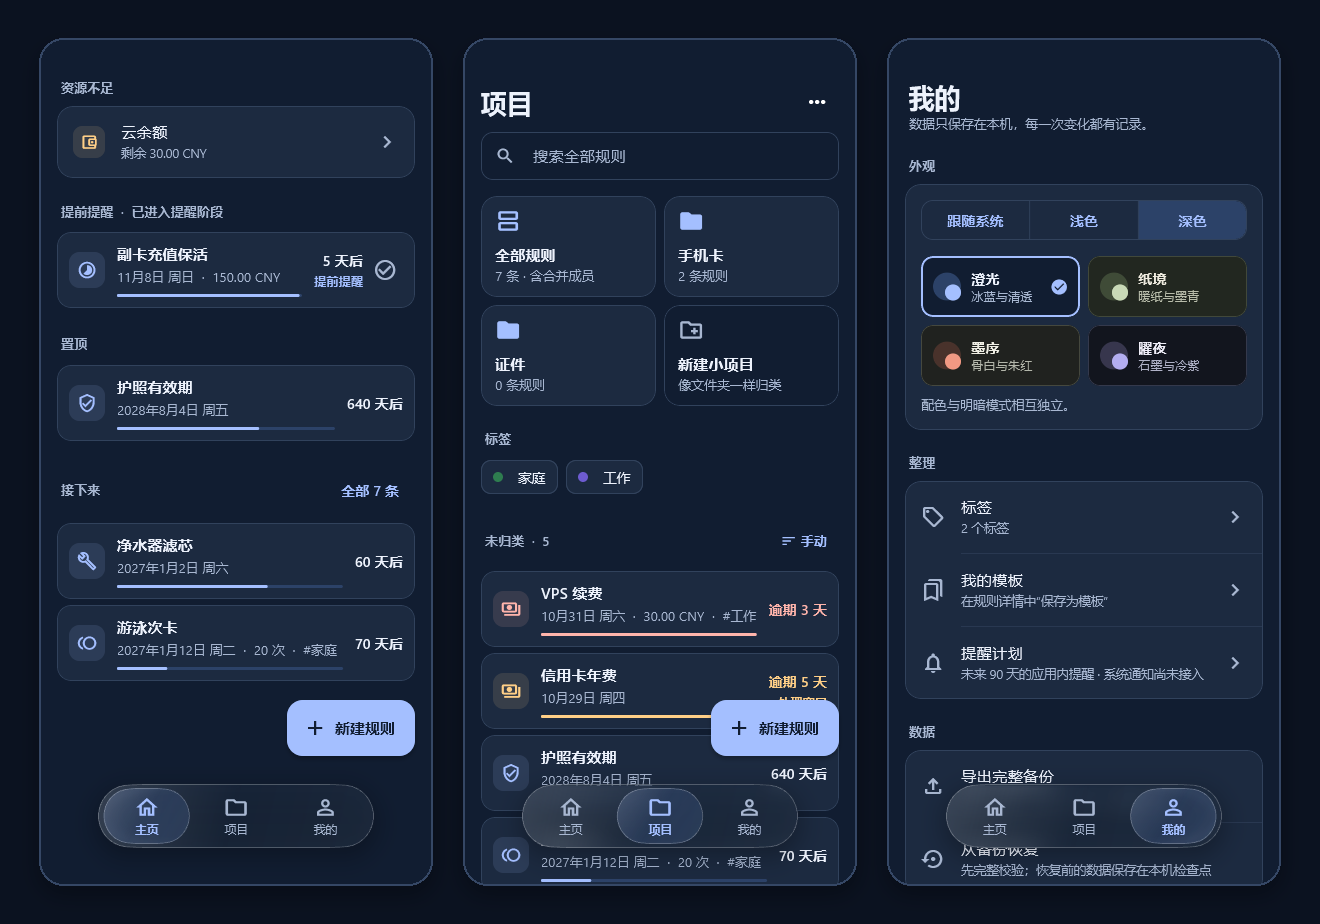
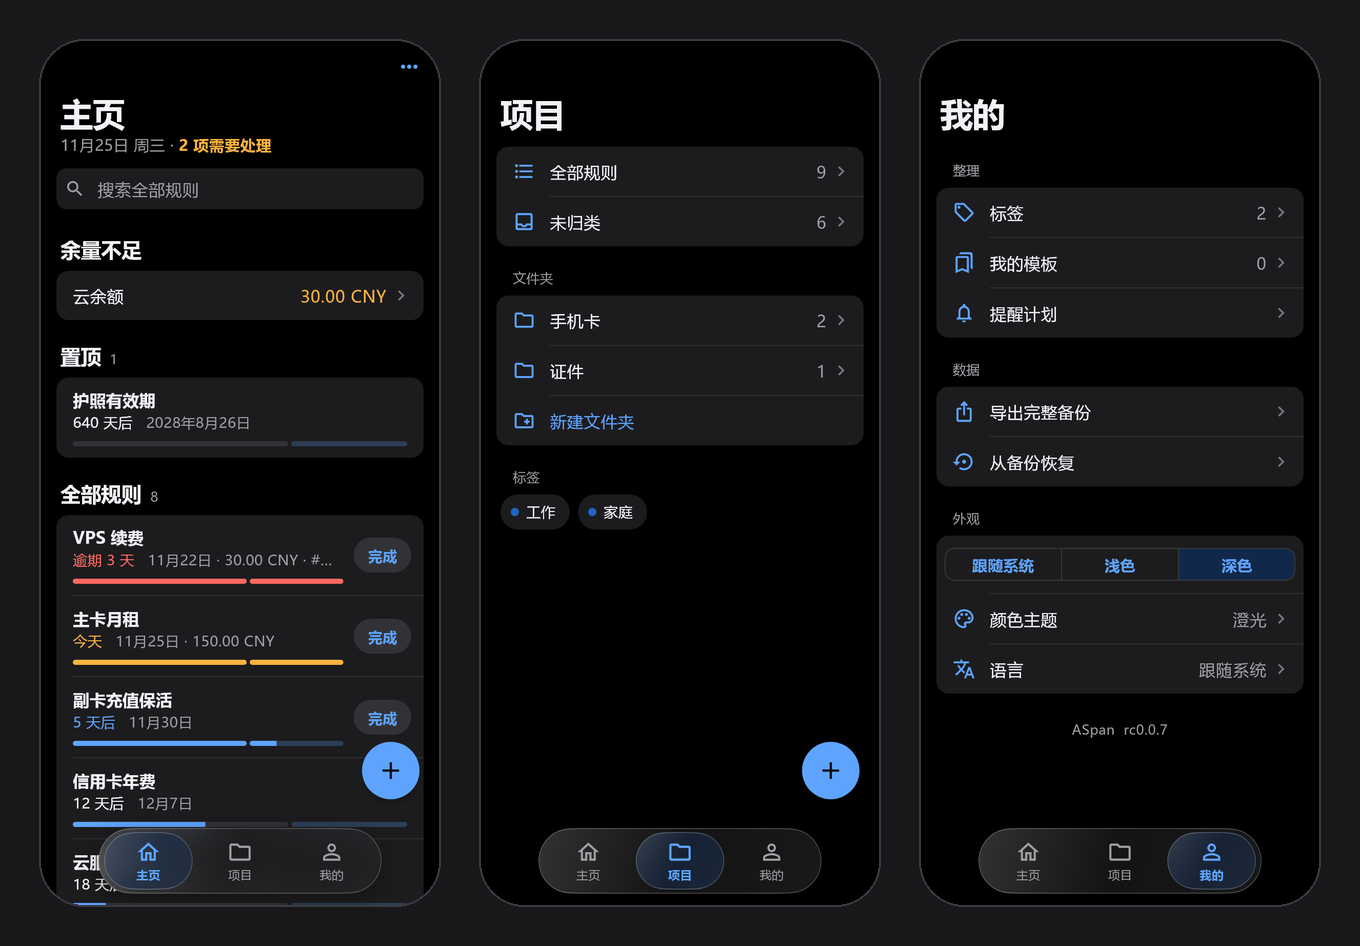
chore: release rc0.0.7 (0.0.7-rc.1+11)
Update both READMEs for rc0.0.7: interface languages, the Home order, Android-only downloads and new preview screenshots rendered from sample data.

diff --git a/README.md b/README.md
@@ -20,7 +20,7 @@ An offline app for time and resource tracking, built with Flutter and Rust.
   <img src="docs/images/preview-light.png" alt="The ASpan Home, Projects and Me pages, shown in light and dark themes" width="900">
 </picture>
 
-<sub>Home · Projects · Me. Screenshots use sample data and come from UI tests; they are not device acceptance results.</sub>
+<sub>Home · Projects · Me. Screenshots use sample data and are rendered by a UI test; they are not device acceptance results.</sub>
 
 </div>
 
@@ -28,12 +28,12 @@ An offline app for time and resource tracking, built with Flutter and Rust.
 
 Subscription renewals, document expiry dates, prepaid passes and home maintenance checks tend to live in different places: a calendar, a notes app, several other apps. It's hard to see what is due and how much is left. ASpan keeps them in one local app:
 
-- **See what needs attention**: the Home page lists the items due in the current period.
+- **See what comes next**: the Home page lists every rule by its next date, with low balances and pinned rules on top.
 - **Track dates and amounts together**: balances, counts and expiry dates sit next to each cycle.
 - **Keep a record of every change**: top-ups, charges and corrections all leave an entry you can review.
 - **No account, no network**: your data stays on your device.
 
-It's for you if you want recurring tasks and remaining amounts in one place. If you need system notifications, reminders at an exact time or sync between devices, it doesn't do that yet. The interface is currently in Simplified Chinese only. Runs on Android 7.0+ and Windows 10/11 x64.
+It's for you if you want recurring tasks and remaining amounts in one place. If you need system notifications, reminders at an exact time or sync between devices, it doesn't do that yet. The interface is in Simplified Chinese, English and Traditional Chinese. Runs on Android 7.0+ and Windows 10/11 x64.
 
 ## Features
 
@@ -43,31 +43,31 @@ It's for you if you want recurring tasks and remaining amounts in one place. If 
 - **A record of every change**: confirming, topping up or charging adds an entry; corrections keep the original entry and the fix, and forecasts never write to the ledger.
 - **Data stays on your device**: export and restore a full JSON backup; the backup is checked before restoring, and a checkpoint is kept from before the restore.
 - **Fits phones and desktops**: four color schemes, light and dark modes you can switch on their own, a floating navigation bar on narrow screens and a sidebar on wide ones.
+- **Three interface languages**: Simplified Chinese, English and Traditional Chinese; it follows your system language unless you pick one.
 - **Open source**: original code under **AGPL-3.0-only**; third-party licenses and notices are kept intact.
 
-The reminder plan is only shown inside the app. **System notifications, exact times, time zones/DST and automatic posting are not implemented yet.** There is no in-app way to roll back to a restore checkpoint yet. The interface is only available in Simplified Chinese. No feature needs an internet connection.
+The reminder plan is only shown inside the app. **System notifications, exact times, time zones/DST and automatic posting are not implemented yet.** There is no in-app way to roll back to a restore checkpoint yet. No feature needs an internet connection.
 
 ## Download
 
-Current version: [**rc0.0.5**](https://github.com/SteamDoge/aspan/releases/tag/rc0.0.5) (0.0.5-rc.1+9). See [all releases](https://github.com/SteamDoge/aspan/releases) for changes and packages.
+Current version: [**rc0.0.7**](https://github.com/SteamDoge/aspan/releases/tag/rc0.0.7) (0.0.7-rc.1+11). See [all releases](https://github.com/SteamDoge/aspan/releases) for changes and packages.
 
 | Platform | Download | Which one |
 | --- | --- | --- |
-| Android 7.0+ (API 24+) | [![APK ARM64](https://img.shields.io/badge/APK-ARM64-168039?logo=android)](https://github.com/SteamDoge/aspan/releases/download/rc0.0.5/ASpan-rc0.0.5-android-arm64-v8a.apk) | Most phones |
-| Android x86_64 | [![APK x86_64](https://img.shields.io/badge/APK-x86__64-45BF55?logo=android)](https://github.com/SteamDoge/aspan/releases/download/rc0.0.5/ASpan-rc0.0.5-android-x86_64.apk) | x86_64 devices and emulators |
-| Windows 10/11 x64 | [![Portable x64](https://img.shields.io/badge/Portable-x64-2D7D9A)](https://github.com/SteamDoge/aspan/releases/download/rc0.0.5/ASpan-rc0.0.5-windows-x64.zip) | Extract the whole folder and run `aspan.exe` |
+| Android 7.0+ · ARM64 | [![APK ARM64](https://img.shields.io/badge/APK-ARM64-168039?logo=android)](https://github.com/SteamDoge/aspan/releases/download/rc0.0.7/ASpan-rc0.0.7-android-arm64-v8a.apk) | Most phones |
+| Android 7.0+ · x86_64 | [![APK x86_64](https://img.shields.io/badge/APK-x86__64-45BF55?logo=android)](https://github.com/SteamDoge/aspan/releases/download/rc0.0.7/ASpan-rc0.0.7-android-x86_64.apk) | x86_64 devices and emulators |
 
-<sub>Extract the whole Windows portable package and keep the DLLs and `data/`. It is not code-signed, so Windows may warn you on first run. There are no ARMv7, Windows ARM64, macOS, Linux or iOS packages yet. ARM64 physical devices, the final Windows GUI and the full device matrix have not been verified; see the [release](https://github.com/SteamDoge/aspan/releases/tag/rc0.0.5) for details. Check packages against [SHA256SUMS](https://github.com/SteamDoge/aspan/releases/download/rc0.0.5/SHA256SUMS).</sub>
+<sub>This version has Android packages only; the latest Windows portable package is in [rc0.0.5](https://github.com/SteamDoge/aspan/releases/tag/rc0.0.5) (extract the whole folder and keep the DLLs and `data/`; it is not code-signed). There are no ARMv7, Windows ARM64, macOS, Linux or iOS packages yet. The full device matrix has not been verified; see the [release](https://github.com/SteamDoge/aspan/releases/tag/rc0.0.7) for details. Check packages against [SHA256SUMS](https://github.com/SteamDoge/aspan/releases/download/rc0.0.7/SHA256SUMS).</sub>
 
 ## Getting started
 
 **1 · Install.** On Android, install the APK for your device. On Windows, extract the portable ZIP and keep the DLLs and `data/` next to `aspan.exe`; copying only the EXE won't work.
 
-**2 · Add a rule.** On the **Projects** (项目) page, create a rule or pick a template, then check its dates, cycle and resource settings.<br><sub>A template keeps the dates it was saved with, so check them before use.</sub>
+**2 · Add a rule.** On the **Projects** page, create a rule or pick a template, then check its dates, cycle and resource settings.<br><sub>A template keeps the dates it was saved with, so check them before use.</sub>
 
-**3 · Handle the current period.** On the **Home** (主页) page, see what is due and confirm, top up, charge or skip it.
+**3 · Handle the current period.** On the **Home** page, see what is due and mark it done, top up, charge or skip it.<br><sub>The menu at the top right groups Home by folder or tag, or shows only one of them.</sub>
 
-**4 · Back up.** On the **Me** (我的) page, change the look, manage templates and export a full backup regularly.
+**4 · Back up.** On the **Me** page, change the look and language, manage templates and export a full backup regularly.
 
 Export a backup before upgrading. An Android build signed with the old Debug key can't be upgraded in place by a new one. Uninstalling the Android app usually deletes its data, so don't uninstall in place of making a backup.
 
@@ -93,10 +93,10 @@ cd aspan
 # Development run: builds the Rust native library, then starts the Windows app
 pwsh -File scripts/run.ps1
 
-# Windows package
+# Windows portable build
 pwsh -File scripts/build.ps1 -Platform windows
 
-# Android packages (Debug signing)
+# Android APKs (Debug signing)
 pwsh -File scripts/build.ps1 -Platform android -Configuration Debug `
   -AndroidSdk 'YOUR_ANDROID_SDK_DIR' -Java 'YOUR_JDK_DIR'
 ```
@@ -152,6 +152,7 @@ Run the Windows integration tests with `pwsh -File scripts/native-check.ps1`. Th
 | `crates/core` | Date cycles, rules, fixed-precision resources, idempotent posting, corrections and integrity checks |
 | `crates/runtime` | SQLite transactions, JSON C ABI, backups and CLI |
 | `scripts` | Checks, running, local builds and release candidate packaging and verification |
+| `docs/images` | Screenshots shown in this README |
 | `licenses` | Third-party license texts |
 
 ## Privacy

diff --git a/README.zh-CN.md b/README.zh-CN.md
@@ -20,7 +20,7 @@
   <img src="docs/images/preview-light.png" alt="ASpan 的主页、项目和我的三个页面，分别展示浅色与深色主题" width="900">
 </picture>
 
-<sub>主页 · 项目 · 我的。截图使用示例数据，由界面测试生成，不代表各设备的实机验收结果。</sub>
+<sub>主页 · 项目 · 我的。截图使用示例数据，由界面测试渲染，不代表各设备的实机验收结果。</sub>
 
 </div>
 
@@ -28,12 +28,12 @@
 
 订阅续费、证件到期、次数卡余量、家里设备的检查维护，往往分散在日历、备忘录和各个应用里，哪天该处理、还剩多少，很难一眼看清。ASpan 把这些都放进同一个本地应用：
 
-- **按周期提醒你该处理什么**：主页列出当前期需要确认的事项。
+- **一眼看到接下来的事**：主页按下一次日期列出全部规则，余量不足和置顶的排在最前。
 - **日期和余量一起记**：周期旁边就是余额、次数和有效期。
 - **每次变动都留记录**：充值、扣费和纠错都有流水可查。
 - **不需要账号，不联网**：数据只保存在你的设备上。
 
-如果你想把各种按周期发生的事和剩余额度集中管理，它适合你。如果你需要系统通知、精确到时刻的提醒或多设备同步，目前还做不到。界面目前只有简体中文。支持 Android 7.0+ 和 Windows 10／11 x64。
+如果你想把各种按周期发生的事和剩余额度集中管理，它适合你。如果你需要系统通知、精确到时刻的提醒或多设备同步，目前还做不到。界面有简体中文、English 和繁體中文。支持 Android 7.0+ 和 Windows 10／11 x64。
 
 ## 功能
 
@@ -43,21 +43,21 @@
 - **每次变动都有记录**：确认完成、充值或扣费后记录流水；纠错保留原始记录与修正过程，预测不会直接记账。
 - **数据保存在本机**：导出和恢复完整 JSON 备份；恢复前先检查备份，并保留恢复前的检查点。
 - **适应手机与桌面**：澄光、纸境、墨序、曜夜四套配色，明暗模式可单独切换；窄屏用悬浮导航，宽屏用侧栏。
+- **三种界面语言**：简体中文、English、繁體中文，默认跟随系统语言，也可以手动指定。
 - **开放源码**：原创代码采用 **AGPL-3.0-only**，第三方许可与版权声明完整保留。
 
-提醒计划目前只在应用内显示，**系统通知、具体时刻、时区／夏令时和自动记账尚未实现**。恢复前的检查点暂时没有应用内回退入口。界面暂时只有简体中文。所有功能都不需要联网。
+提醒计划目前只在应用内显示，**系统通知、具体时刻、时区／夏令时和自动记账尚未实现**。恢复前的检查点暂时没有应用内回退入口。所有功能都不需要联网。
 
 ## 下载
 
-当前版本：[**rc0.0.5**](https://github.com/SteamDoge/aspan/releases/tag/rc0.0.5)（0.0.5-rc.1+9）。在 [所有版本](https://github.com/SteamDoge/aspan/releases) 查看更新与安装包。
+当前版本：[**rc0.0.7**](https://github.com/SteamDoge/aspan/releases/tag/rc0.0.7)（0.0.7-rc.1+11）。在 [所有版本](https://github.com/SteamDoge/aspan/releases) 查看更新与安装包。
 
 | 平台 | 下载 | 选择说明 |
 | --- | --- | --- |
-| Android 7.0+（API 24+） | [![APK ARM64](https://img.shields.io/badge/APK-ARM64-168039?logo=android)](https://github.com/SteamDoge/aspan/releases/download/rc0.0.5/ASpan-rc0.0.5-android-arm64-v8a.apk) | 大多数手机选择此版本 |
-| Android x86_64 | [![APK x86_64](https://img.shields.io/badge/APK-x86__64-45BF55?logo=android)](https://github.com/SteamDoge/aspan/releases/download/rc0.0.5/ASpan-rc0.0.5-android-x86_64.apk) | x86_64 设备／模拟器 |
-| Windows 10／11 x64 | [![Portable x64](https://img.shields.io/badge/Portable-x64-2D7D9A)](https://github.com/SteamDoge/aspan/releases/download/rc0.0.5/ASpan-rc0.0.5-windows-x64.zip) | 解压完整目录，运行 `aspan.exe` |
+| Android 7.0+ · ARM64 | [![APK ARM64](https://img.shields.io/badge/APK-ARM64-168039?logo=android)](https://github.com/SteamDoge/aspan/releases/download/rc0.0.7/ASpan-rc0.0.7-android-arm64-v8a.apk) | 大多数手机选择此版本 |
+| Android 7.0+ · x86_64 | [![APK x86_64](https://img.shields.io/badge/APK-x86__64-45BF55?logo=android)](https://github.com/SteamDoge/aspan/releases/download/rc0.0.7/ASpan-rc0.0.7-android-x86_64.apk) | x86_64 设备／模拟器 |
 
-<sub>Windows 便携包须完整解压，保留 DLL 与 `data/`；未做代码签名，首次运行可能出现系统提示。当前没有 ARMv7、Windows ARM64、macOS、Linux 或 iOS 版本。ARM64 实体机、最终 Windows 图形界面与完整设备矩阵尚未验收，范围见 [Release](https://github.com/SteamDoge/aspan/releases/tag/rc0.0.5)。安装包可用 [SHA256SUMS](https://github.com/SteamDoge/aspan/releases/download/rc0.0.5/SHA256SUMS) 校验。</sub>
+<sub>本版只有 Android 安装包；最新的 Windows 便携包在 [rc0.0.5](https://github.com/SteamDoge/aspan/releases/tag/rc0.0.5)（须完整解压，保留 DLL 与 `data/`，未做代码签名）。当前没有 ARMv7、Windows ARM64、macOS、Linux 或 iOS 版本。完整设备矩阵尚未验收，范围见 [Release](https://github.com/SteamDoge/aspan/releases/tag/rc0.0.7)。安装包可用 [SHA256SUMS](https://github.com/SteamDoge/aspan/releases/download/rc0.0.7/SHA256SUMS) 校验。</sub>
 
 ## 使用
 
@@ -65,9 +65,9 @@
 
 **2 · 添加规则。** 在 **项目** 页新建规则或选择场景模板，核对日期、周期与资源设置。<br><sub>模板会保留保存时的配置日期，使用前请核对。</sub>
 
-**3 · 处理当前期。** 在 **主页** 查看需要处理的事项，确认完成、充值、扣费或跳过。
+**3 · 处理当前期。** 在 **主页** 查看需要处理的事项，标记完成、充值、扣费或跳过。<br><sub>右上角菜单可以让主页按文件夹或标签分组，或只看其中一个。</sub>
 
-**4 · 备份。** 在 **我的** 调整外观、管理模板，并定期导出完整备份。
+**4 · 备份。** 在 **我的** 调整外观和语言、管理模板，并定期导出完整备份。
 
 升级前先导出备份。旧版 Debug 签名的 Android 安装包不能被新版直接覆盖；卸载 Android 应用通常会清除数据，不要用卸载代替备份。
 
@@ -93,10 +93,10 @@ cd aspan
 # 开发运行：先构建 Rust 原生库，再启动 Windows 应用
 pwsh -File scripts/run.ps1
 
-# Windows 安装包
+# Windows 便携版
 pwsh -File scripts/build.ps1 -Platform windows
 
-# Android 安装包（Debug 签名）
+# Android APK（Debug 签名）
 pwsh -File scripts/build.ps1 -Platform android -Configuration Debug `
   -AndroidSdk 'YOUR_ANDROID_SDK_DIR' -Java 'YOUR_JDK_DIR'
 ```
@@ -152,6 +152,7 @@ Windows 集成测试用 `pwsh -File scripts/native-check.ps1` 运行，使用独
 | `crates/core` | 日期周期、规则、整数精度资源、幂等记账、纠错与完整性校验 |
 | `crates/runtime` | SQLite 事务、JSON C ABI、备份与 CLI |
 | `scripts` | 检查、运行、本地构建与候选版打包校验 |
+| `docs/images` | README 使用的预览截图 |
 | `licenses` | 第三方许可证原文 |
 
 ## 隐私
